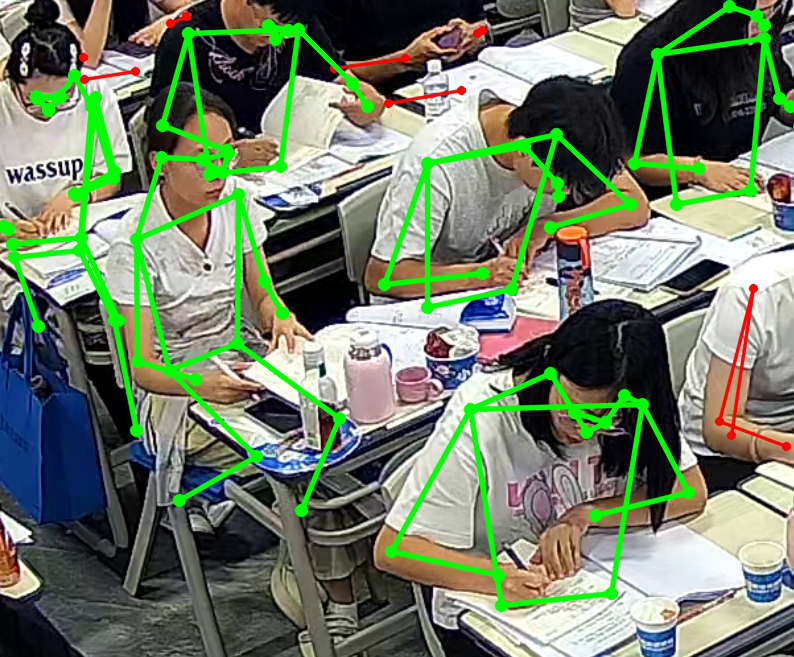
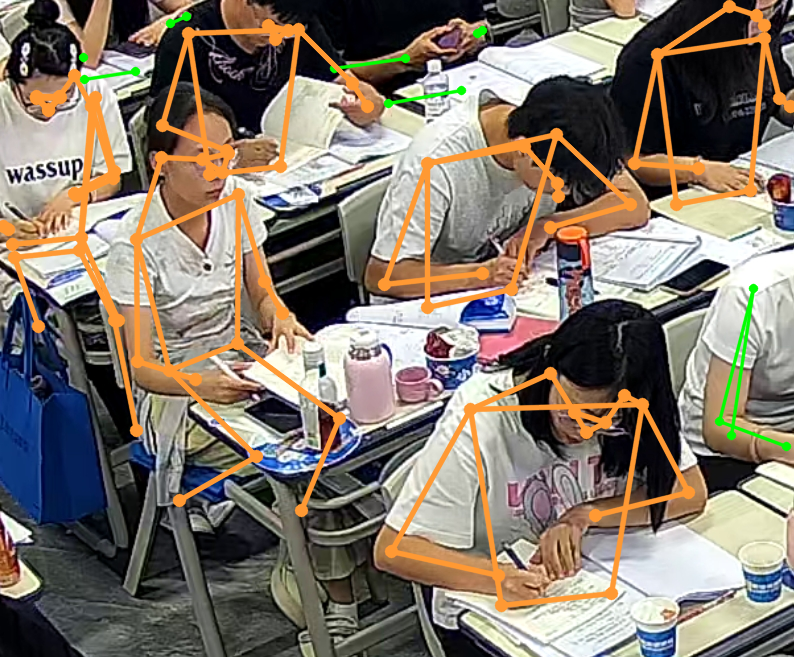
颜色调整

diff --git a/ultralytics/yolo/utils/plotting.py b/ultralytics/yolo/utils/plotting.py
@@ -213,10 +213,11 @@ class Annotator:
                 # 站立判断
                 if is_standing(kpts):
                     if is_standing1(kpts):
-                        cv2.circle(self.im, (int(x_coord), int(y_coord)), 4, [0,0,255], -1, lineType=cv2.LINE_AA)
+                        # 绿色
+                        cv2.circle(self.im, (int(x_coord), int(y_coord)), 4, [0,255,0], -1, lineType=cv2.LINE_AA)
                     else:
-                        # 低头
-                        cv2.circle(self.im, (int(x_coord), int(y_coord)), 6,[0,255,0], -1, lineType=cv2.LINE_AA)   
+                        # 低头 黄色 
+                        cv2.circle(self.im, (int(x_coord), int(y_coord)), 6,[51, 153, 255], -1, lineType=cv2.LINE_AA)   
                 else:
                     cv2.circle(self.im, (int(x_coord), int(y_coord)), 8, [255,0,0], -1, lineType=cv2.LINE_AA)    
 
@@ -239,10 +240,10 @@ class Annotator:
                 if is_standing(kpts):
                     # 坐姿
                     if is_standing1(kpts):
-                        cv2.line(self.im, pos1, pos2, [0,0,255], thickness=2, lineType=cv2.LINE_AA)
+                        cv2.line(self.im, pos1, pos2, [0,255,0], thickness=2, lineType=cv2.LINE_AA)
                     else:
                         # 低头
-                        cv2.line(self.im, pos1, pos2, [0,255,0], thickness=4, lineType=cv2.LINE_AA)    
+                        cv2.line(self.im, pos1, pos2,[51, 153, 255], thickness=4, lineType=cv2.LINE_AA)    
                 else:
                     # 站资
                     cv2.line(self.im, pos1, pos2, [255,0,0], thickness=6, lineType=cv2.LINE_AA)    
